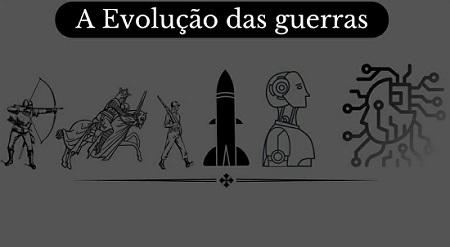
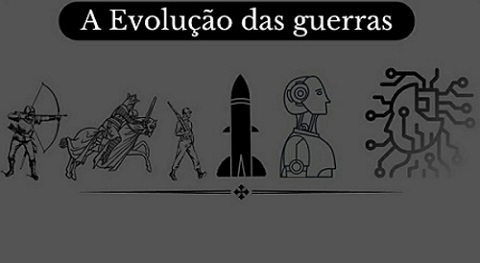
alterando a responsividade-tamanhos de tela.

diff --git a/style.css b/style.css
@@ -1,8 +1,8 @@
 
   @import url('https://fonts.googleapis.com/css2?family=Poppins:ital,wght@0,400;0,800;1,300;1,700&family=Roboto+Mono:ital,wght@0,100;0,200;0,300;0,600;1,100;1,200;1,300;1,500&display=swap');
 
-  *{
-    margin: 0%;
+  *{padding: 0;
+    margin: 0;
   
   }
 html{ background-color:black;
@@ -14,21 +14,19 @@ height: 1200px;}
  
 
   main{
-    width: 900px;
     margin: 0 auto;
-    min-width: 320px;
+    min-width: 400px;
     max-width: 900px;
   }
 
 
 .img-titulo {  
 border : solid  2px black;
-min-width: 300px;
 width: 100%
 ;
  }
 
- header{
+ .cabeçalho{
   background-color: rgb( 129,129,129);
   font-size: 10px;
   position:fixed ;
@@ -90,11 +88,21 @@ a:active{background-color: black; color: rgb( 129,129,129); }
   
   
 
-  .img-subtitulo{
-    height: 582px;
-    width: 850px;
-    width: 100%;
-    
-  }
-
-    
+  .img-subtitulo
+  {width: 100%;}
+ 
+    @media (max-width:600px){
+      *{margin: 0;}
+      .cabeçalho{background-color: rgb( 129,129,129);}
+    .main{
+      width: 576px
+    }
+    .img-titulo{width: 450px;
+    height: 263px;
+    margin: auto;
+    display: block;}
+    .paragrafo{width: 500px;
+      text-align: center;
+      display: block;}
+    .subtitulo{width: 440px;}
+    }

diff --git a/index.html b/index.html
@@ -10,7 +10,7 @@
 </head> 
 
 <body> 
- <header>
+ <header class="cabeçalho">
     <nav>
         <img src="./icons/iconmonstr-book-28-64 (1).png" alt="livro">Sumario
         <img src="./icons/icon-save.png" alt="salvar"> Salvar
@@ -28,7 +28,7 @@
 
 <picture>
 
-    <source srcset="c:\Users\G-HOPE\Documents\Projetos DEV QUEST\Site a evolução das guerras\site\imagens\evol.png.jpg" media="(min-width:600px)"> 
+    <source srcset="c:\Users\G-HOPE\Documents\Projetos DEV QUEST\Site a evolução das guerras\site\imagens\evol.png.jpg" media="(max-width:600px)"> 
 <img src="imagens/a evolução png.png" alt="titulo-img" class="img-titulo">
 
 
@@ -64,7 +64,12 @@ Viver em sociedade nos dias de hoje nem sempre foi algo tão perfeito. Encontram
 <i> Nascimento da Mesopotâmia	7.000 a.C </i>
 </p> 
 
+<picture>
+<source srcset="c:\Users\G-HOPE\Documents\Projetos DEV QUEST\Site a evolução das guerras\site\imagens\australopithecusrobustus-telas pequenas.jpg" media="(max-width:600px)"> 
+
     <img src="https://4.bp.blogspot.com/_9k8RCJEOHm8/TKe3MsjGy0I/AAAAAAAABks/GefIFhLTyXU/s1600/australopithecusrobustus.jpg" alt="Australopithecus " class="img-subtitulo">
+</picture>
+
 <br>
 </div>.
     <h2 class="subtitulo"> A Era Persa</h2>
